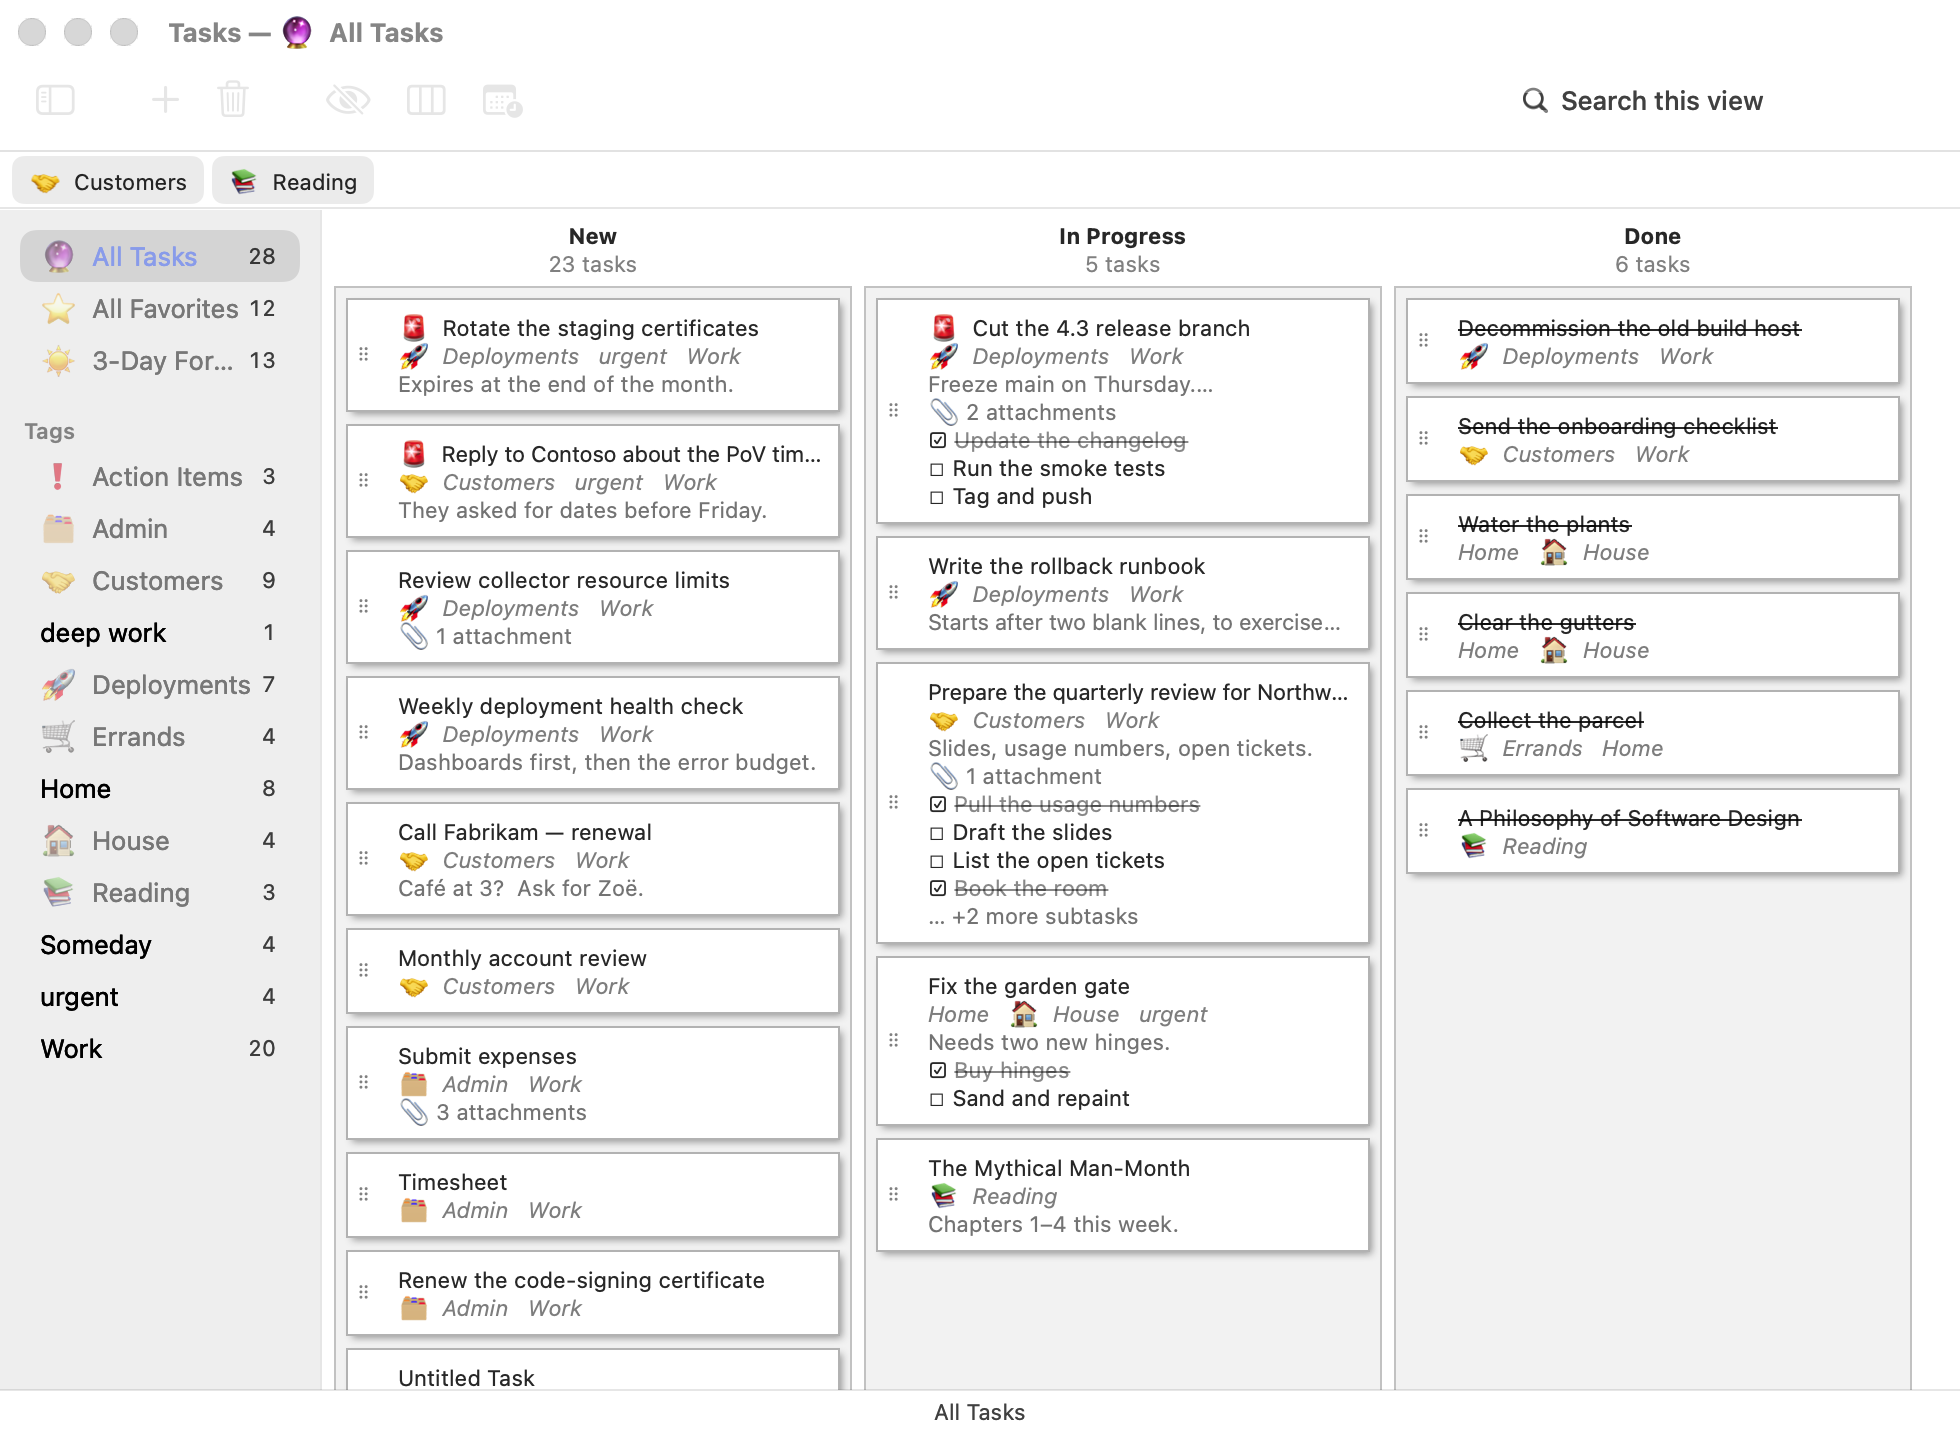
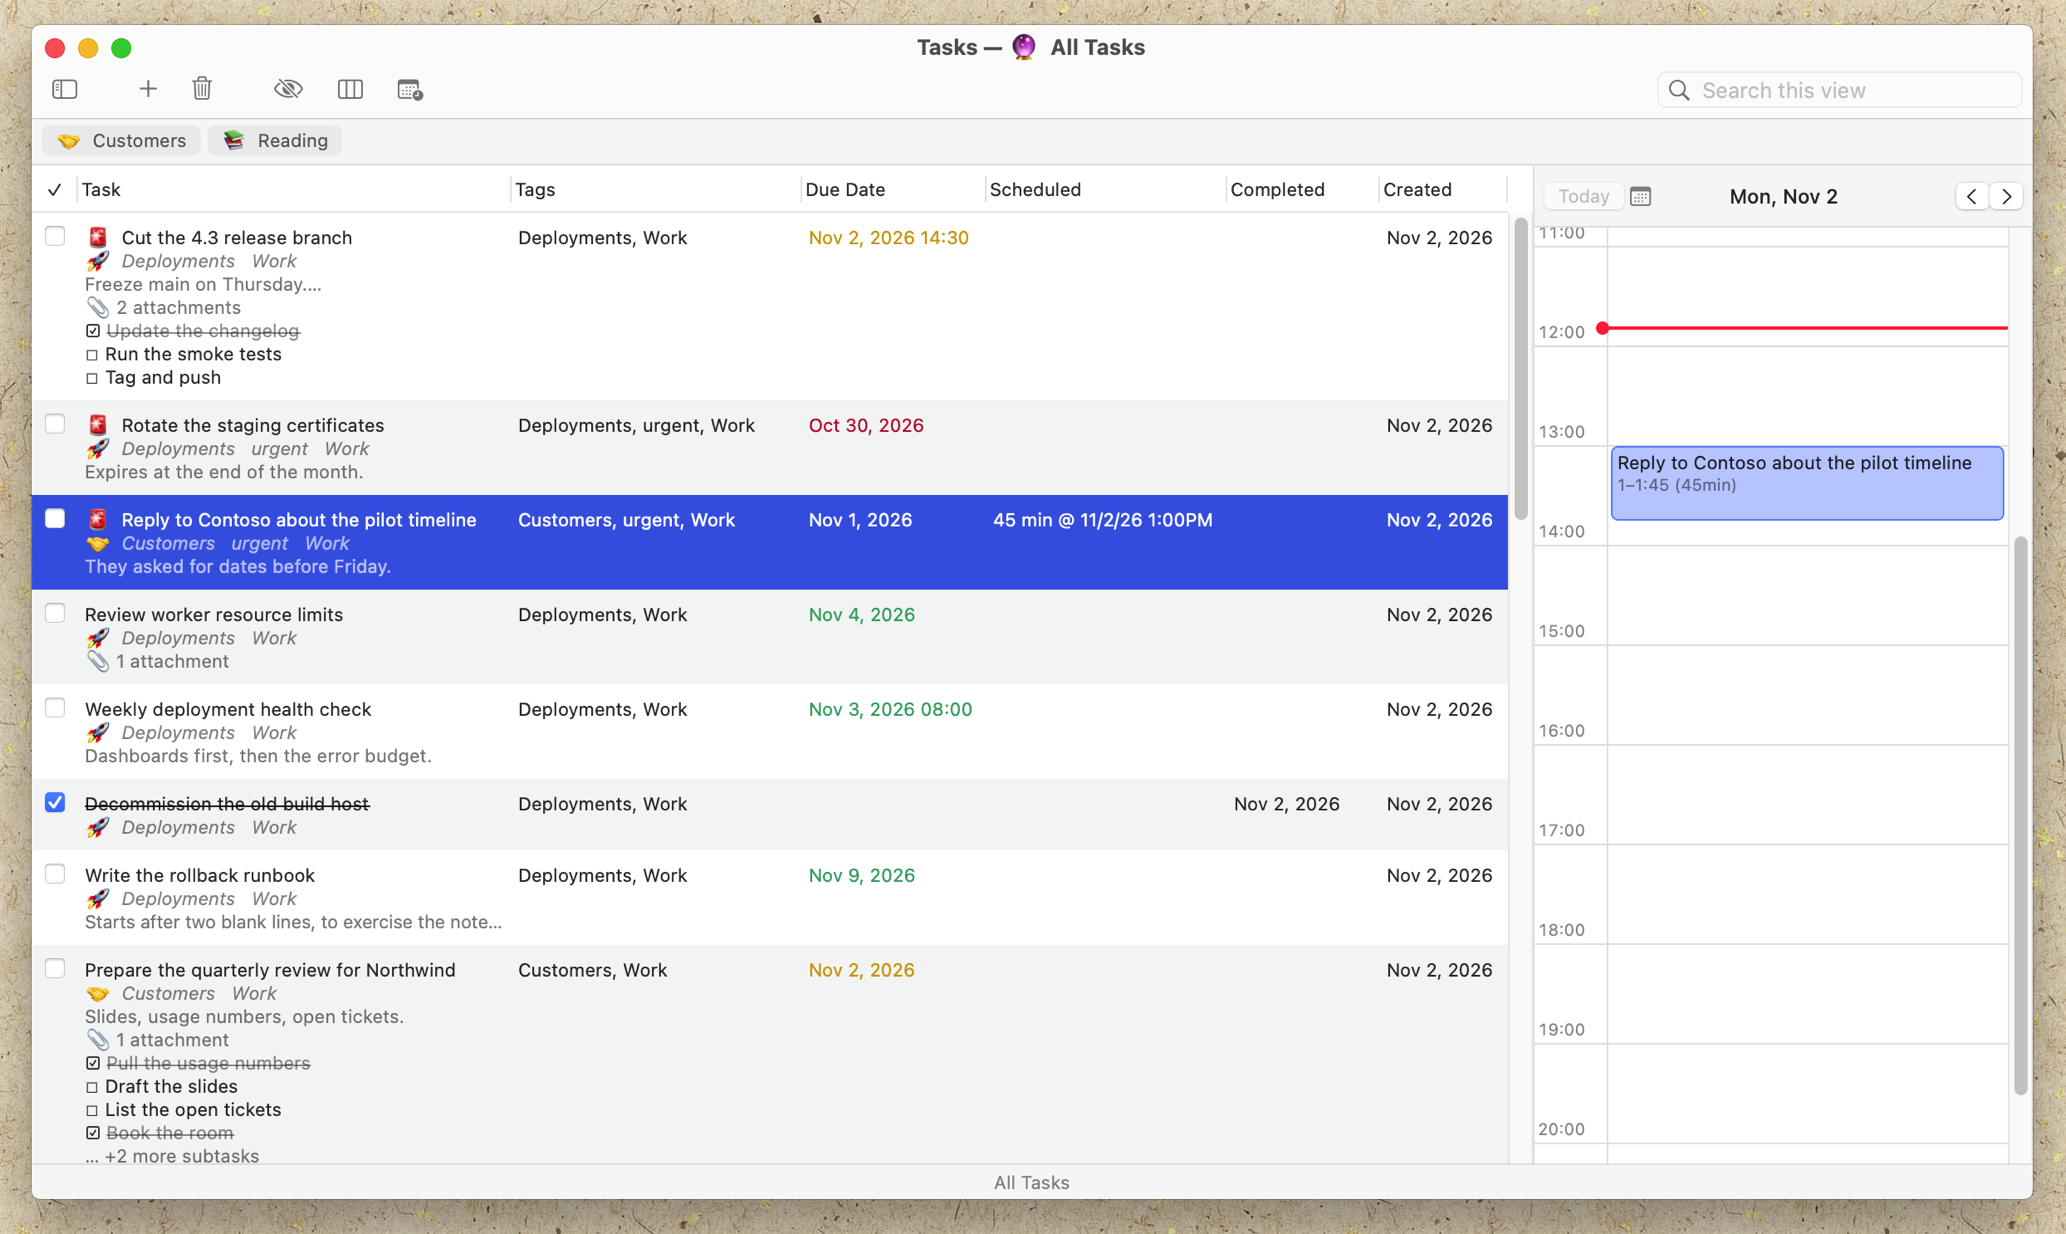
Neutral names in the development seed, and a new screenshot
Two strings in the seed carried the author's employer's vocabulary and
the README screenshot put them on display: "Review collector resource
limits" and "Reply to Contoso about the PoV timeline" become "worker"
and "pilot". The task count, tags, subtasks and attachments are
unchanged, and Contoso, Fabrikam and Northwind stay — they are the
standard fictional companies.

The screenshot is the task list on that seed with the day planner open,
in place of the Kanban board, resampled to 2066 px wide to match the
Files and Notes screenshots.

Changed region(s): [[0.0, 0.0, 1.0, 1.0], [0.7781, 0.0616, 0.9026, 0.0924], [0.6847, 0.1232, 0.7158, 0.154]]

diff --git a/tools/seed.c b/tools/seed.c
@@ -76,7 +76,7 @@ static const seed_task_t seed_tasks[] = {
     /* 4 */ { "Deployments", 1, "Tag and push", "", NO_DUE, 0, TASK_STATUS_NEW, 0, 0, 0, TASK_RECUR_DAY },
     /* 5 */ { "Deployments", NO_PARENT, "Rotate the staging certificates",
               "Expires at the end of the month.", -3, 0, TASK_STATUS_NEW, 1, 0, 0, TASK_RECUR_DAY },
-    /* 6 */ { "Deployments", NO_PARENT, "Review collector resource limits",
+    /* 6 */ { "Deployments", NO_PARENT, "Review worker resource limits",
               "", 2, 0, TASK_STATUS_NEW, 0, 1, 0, TASK_RECUR_DAY },
     /* 7 */ { "Deployments", NO_PARENT, "Weekly deployment health check",
               "Dashboards first, then the error budget.", 1, 9 * 60, TASK_STATUS_NEW, 0, 0, 1, TASK_RECUR_WEEK },
@@ -94,7 +94,7 @@ static const seed_task_t seed_tasks[] = {
     /* 14 */ { "Customers", 10, "Book the room", "", NO_DUE, 0, TASK_STATUS_DONE, 0, 0, 0, TASK_RECUR_DAY },
     /* 15 */ { "Customers", 10, "Send the agenda", "", NO_DUE, 0, TASK_STATUS_NEW, 0, 0, 0, TASK_RECUR_DAY },
     /* 16 */ { "Customers", 10, "Confirm attendees", "", NO_DUE, 0, TASK_STATUS_NEW, 0, 0, 0, TASK_RECUR_DAY },
-    /* 17 */ { "Customers", NO_PARENT, "Reply to Contoso about the PoV timeline",
+    /* 17 */ { "Customers", NO_PARENT, "Reply to Contoso about the pilot timeline",
                "They asked for dates before Friday.", -1, 0, TASK_STATUS_NEW, 1, 0, 0, TASK_RECUR_DAY },
     /* 18 */ { "Customers", NO_PARENT, "Call Fabrikam — renewal",
                "Café at 3?  Ask for Zoë.", 3, 15 * 60, TASK_STATUS_NEW, 0, 0, 0, TASK_RECUR_DAY },

diff --git a/README.md b/README.md
@@ -1,6 +1,6 @@
 # Tasks
 
-![Tasks, the Kanban board](images/screenshot.png)
+![Tasks: the task list and the day planner](images/screenshot.png)
 
 Tasks is a task manager that replaces Reminders on macOS — a native AppKit
 app organised by tags rather than lists, with a Kanban board, subtasks,
